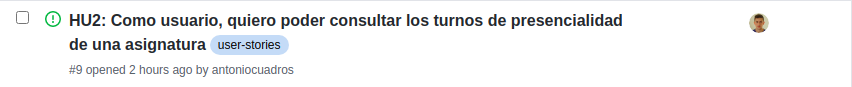
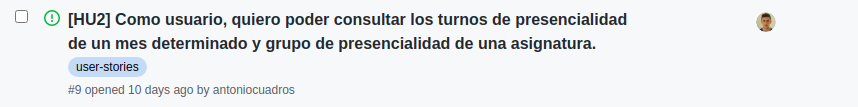
Avanza #20 ya que actualizada documentación referente a Historias de usuario

Changed region(s): [[0.061, 0.3448, 0.7019, 0.9195], [0.0, 0.092, 0.7324, 0.3218], [0.8545, 0.1149, 0.9155, 0.3908]]

diff --git a/docs/HistoriasUsuario/HistoriasUsuario.md b/docs/HistoriasUsuario/HistoriasUsuario.md
@@ -1,14 +1,14 @@
 # Historias de usuario :black_nib: :boy:
 En este documento se irán añadiendo las historias de usuario necesarias para ir completando el proyecto. De forma que en todo momento se tenga una idea de que se quiere lograr con la realización de este proyecto en un rápido vistado a este documento.
 
-## [HU1](https://github.com/antoniocuadros/WhenToClass/issues/8): Como usuario quiero obtener el horario de una asignatura
+## [HU1](https://github.com/antoniocuadros/WhenToClass/issues/8): Como usuario, quiero obtener el horario de teoría y prácticas de una asignatura dado un grupo de prácticas y obtenerlo en orden de lunes a viernes.
 
 ![imagen1](https://github.com/antoniocuadros/WhenToClass/blob/master/docs/HistoriasUsuario/Im%C3%A1genes/HU1.png)
 
-## [HU2](https://github.com/antoniocuadros/WhenToClass/issues/9): Como usuario quiero poder consultar los turnos de presencialidad de una asignatura
+## [HU2](https://github.com/antoniocuadros/WhenToClass/issues/9): Como usuario, quiero poder consultar los turnos de presencialidad de un mes determinado y grupo de presencialidad de una asignatura.
 ![imagen2](https://github.com/antoniocuadros/WhenToClass/blob/master/docs/HistoriasUsuario/Im%C3%A1genes/HU2.png)
 
 
-## [HU3](https://github.com/antoniocuadros/WhenToClass/issues/10): Como usuario quiero poder obtener información de la evaluación de una asignatura
+## [HU3](https://github.com/antoniocuadros/WhenToClass/issues/10): Como usuario, quiero poder saber si tengo que ir esta semana teniendo en cuenta mi turno de presencialidad.
 ![imagen3](https://github.com/antoniocuadros/WhenToClass/blob/master/docs/HistoriasUsuario/Im%C3%A1genes/HU3.png)
 
